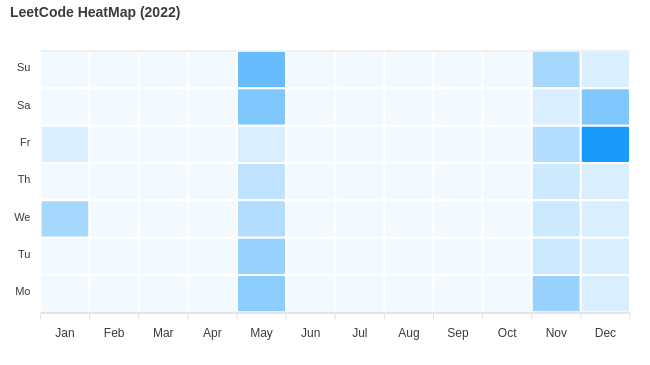
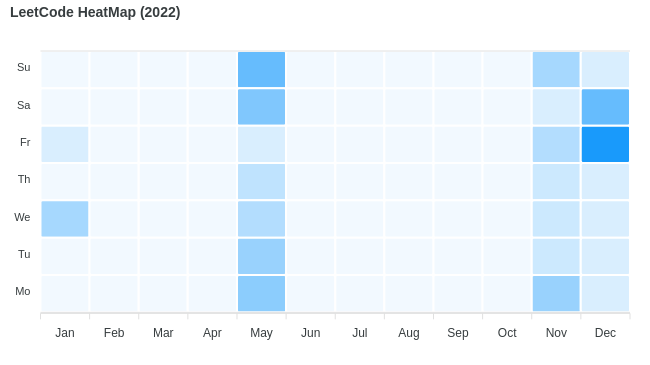
update heatmap.png

Changed region(s): [[0.8923, 0.2411, 0.9846, 0.3616]]

diff --git a/README.md b/README.md
@@ -3,7 +3,7 @@
 
 Collection of LeetCode questions to ace the coding interview! - Created using [LeetHub](https://github.com/QasimWani/LeetHub)
 
-> Questions solved 119
+> Questions solved 121
 
 ## Contribution 
 
